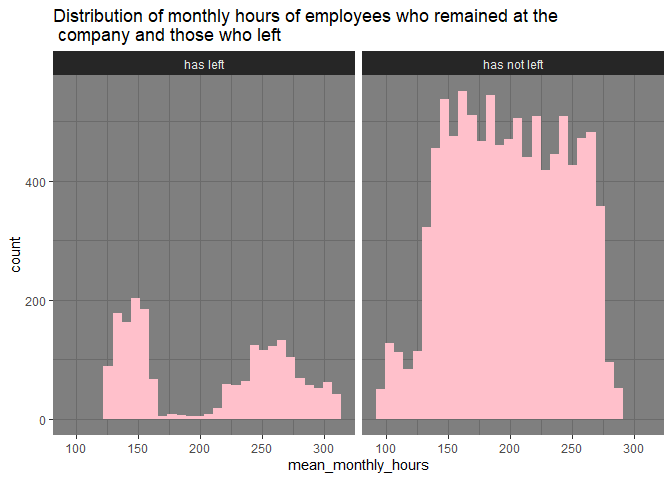
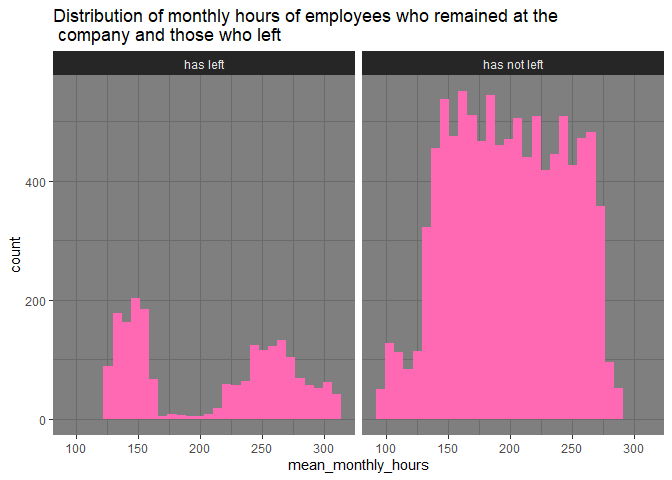
updated charts

Changed region(s): [[0.5625, 0.1875, 0.9375, 0.875], [0.1562, 0.625, 0.5312, 0.875]]

diff --git a/Turnover_Report.md b/Turnover_Report.md
@@ -725,8 +725,9 @@ hours
 
 ``` r
 ggplot(hours, aes(x = has_employee_left, y = average_hours)) + 
-  geom_bar(stat = 'identity', fill = 'purple') +
-  labs(title="Who works more hours?")
+  geom_bar(stat = 'identity', fill = 'aquamarine') +
+  labs(title="Who works more hours?") + 
+  theme_dark()
 ```
 
 ![](Turnover_Report_files/figure-gfm/unnamed-chunk-19-1.png)<!-- -->
@@ -736,7 +737,7 @@ than their counterparts who remained at the company.
 
 ``` r
 ggplot(employee_profile_renamed, aes(x = mean_monthly_hours)) +
-  geom_histogram(fill = 'pink') +
+  geom_histogram(fill = 'hot pink') +
   facet_wrap(~as.factor(recode(left, '0' = 'has not left', '1' = 'has left'))) +
   theme(axis.text.x = element_text(angle = 45)) +
   labs(title="Distribution of monthly hours of employees who remained at the \n company and those who left") + 
